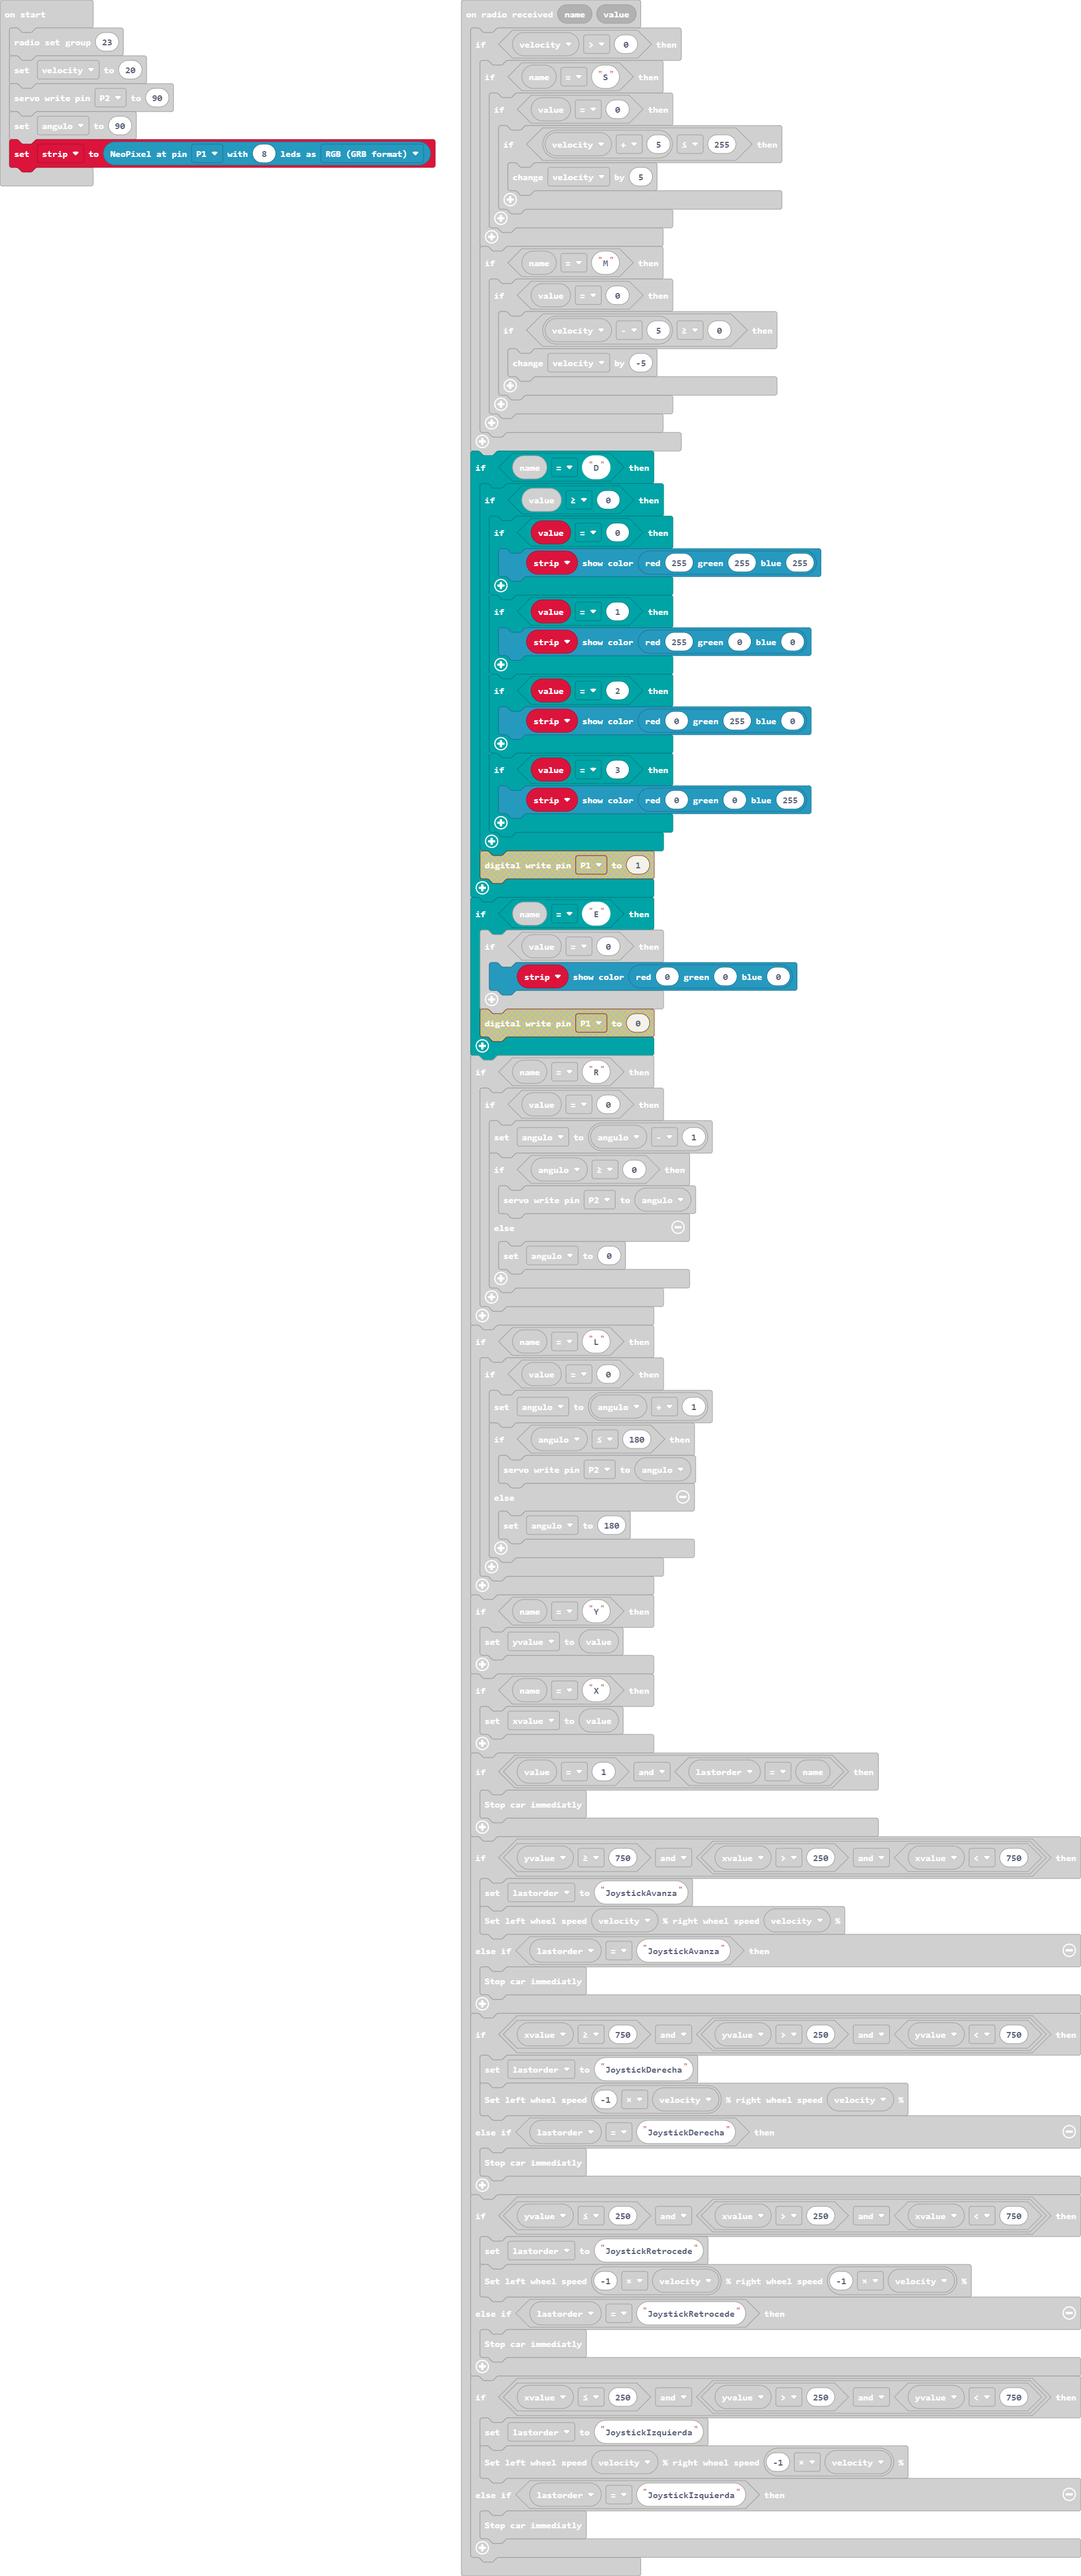
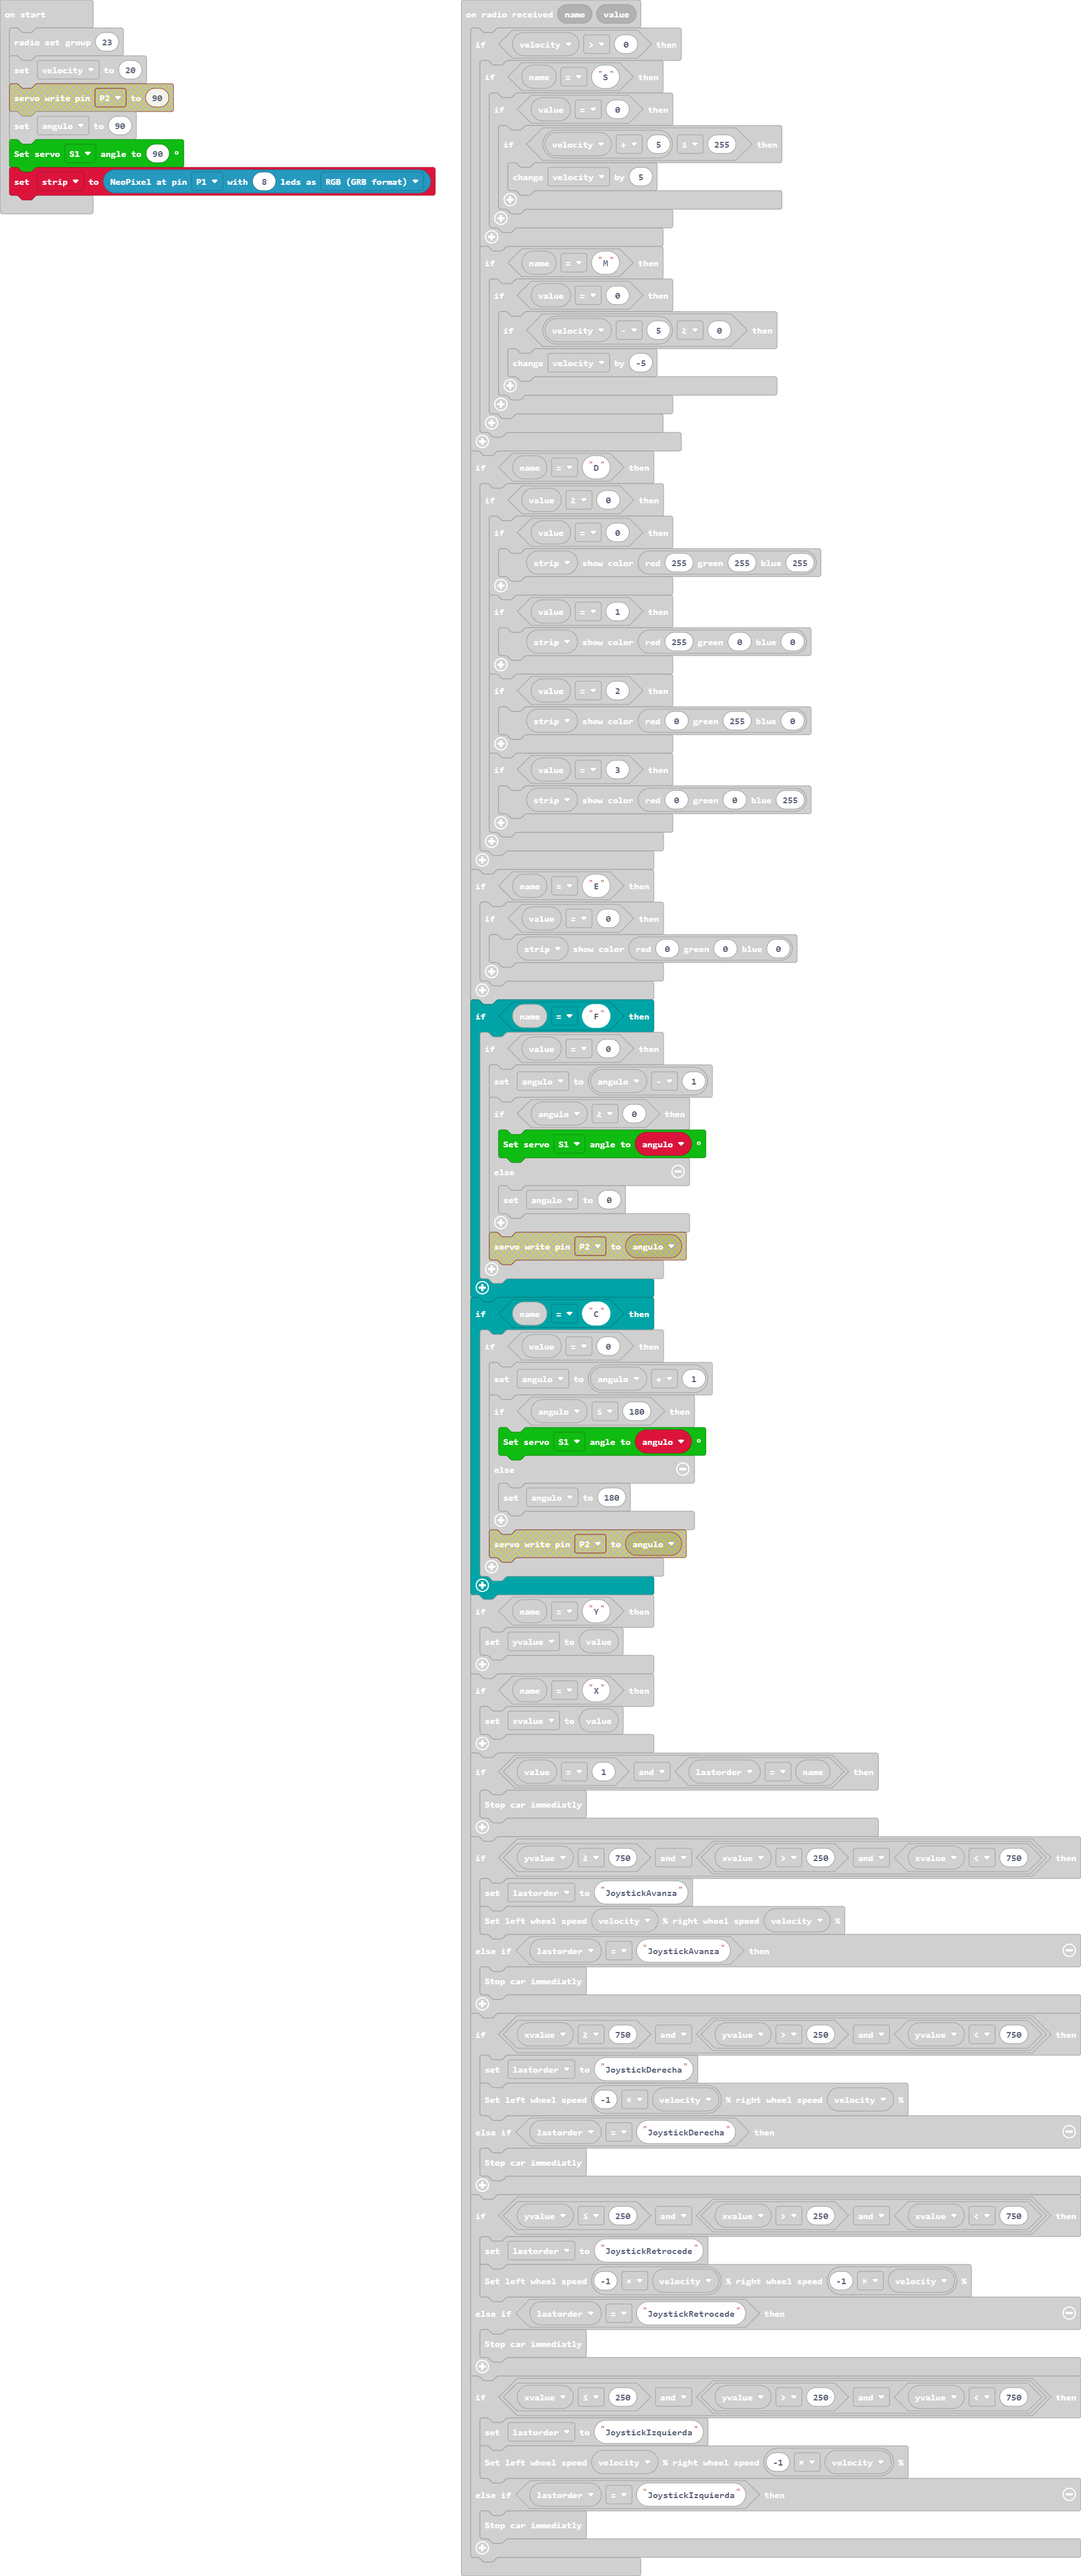
Update main.blocks, main.ts

Changed region(s): [[0.4366, 0.1557, 0.7484, 0.6227], [0.0, 0.0311, 0.4054, 0.0934]]

diff --git a/main.ts b/main.ts
@@ -36,21 +36,21 @@ radio.onReceivedValue(function (name, value) {
             strip.showColor(neopixel.rgb(0, 0, 0))
         }
     }
-    if (name == "R") {
+    if (name == "F") {
         if (value == 0) {
             angulo = angulo - 1
             if (angulo >= 0) {
-                pins.servoWritePin(AnalogPin.P2, angulo)
+                cuteBot.setServo(cuteBot.ServoList.S1, angulo)
             } else {
                 angulo = 0
             }
         }
     }
-    if (name == "L") {
+    if (name == "C") {
         if (value == 0) {
             angulo = angulo + 1
             if (angulo <= 180) {
-                pins.servoWritePin(AnalogPin.P2, angulo)
+                cuteBot.setServo(cuteBot.ServoList.S1, angulo)
             } else {
                 angulo = 180
             }
@@ -98,6 +98,6 @@ let angulo = 0
 let velocity = 0
 radio.setGroup(23)
 velocity = 20
-pins.servoWritePin(AnalogPin.P2, 90)
 angulo = 90
+cuteBot.setServo(cuteBot.ServoList.S1, 90)
 strip = neopixel.create(DigitalPin.P1, 8, NeoPixelMode.RGB)
